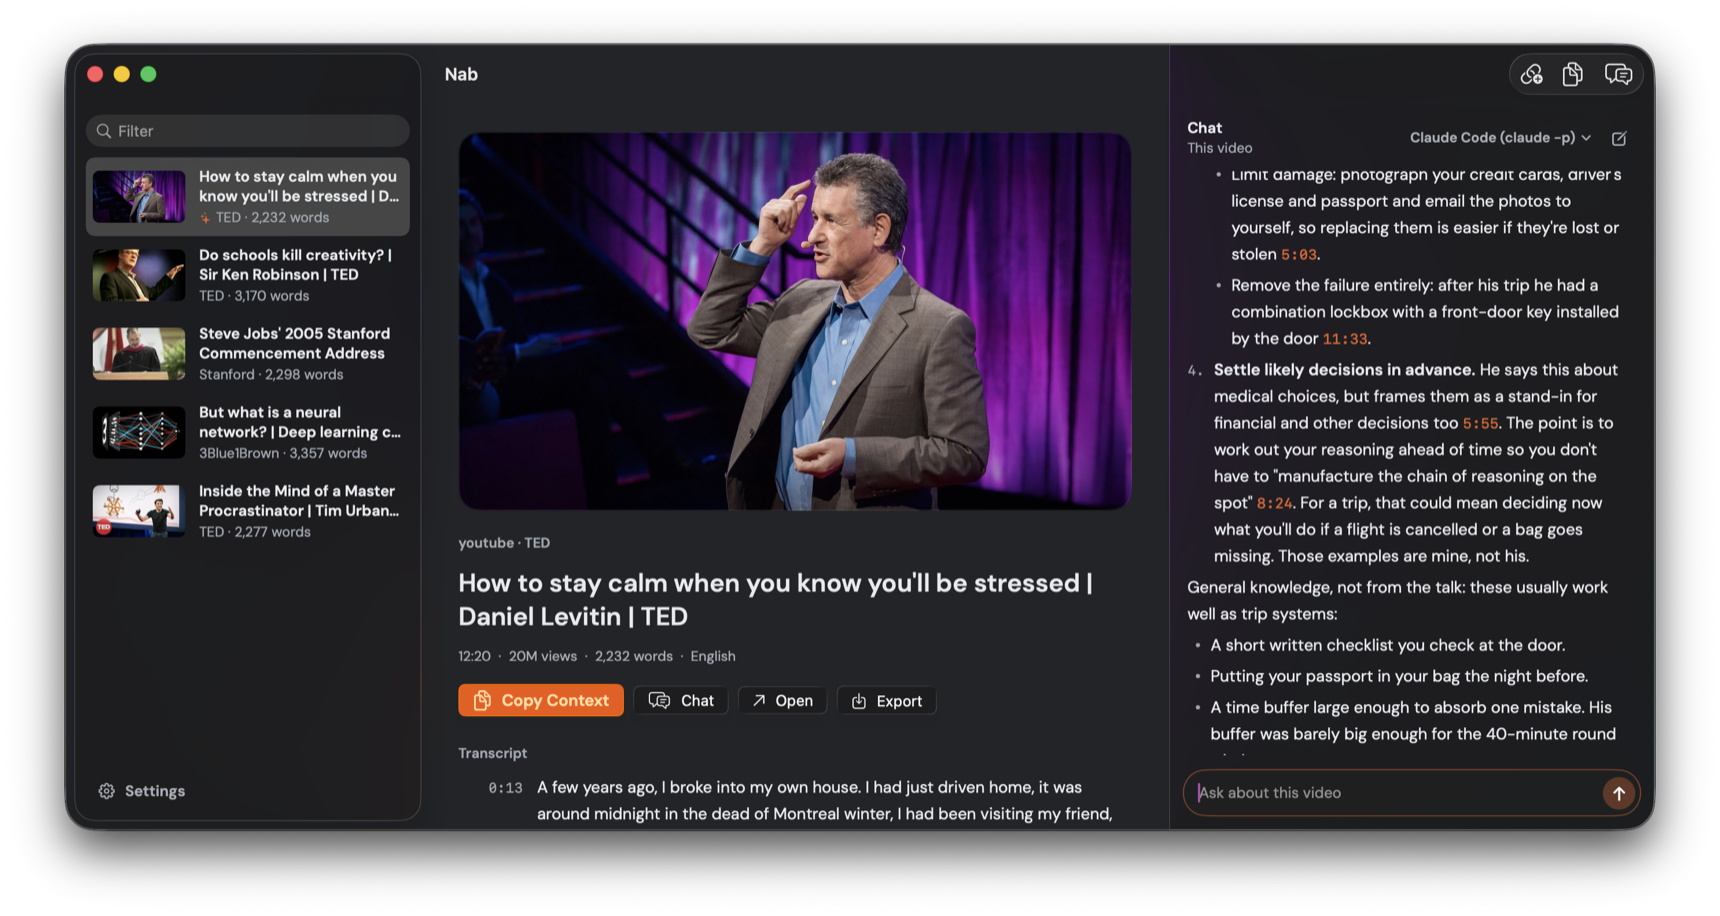
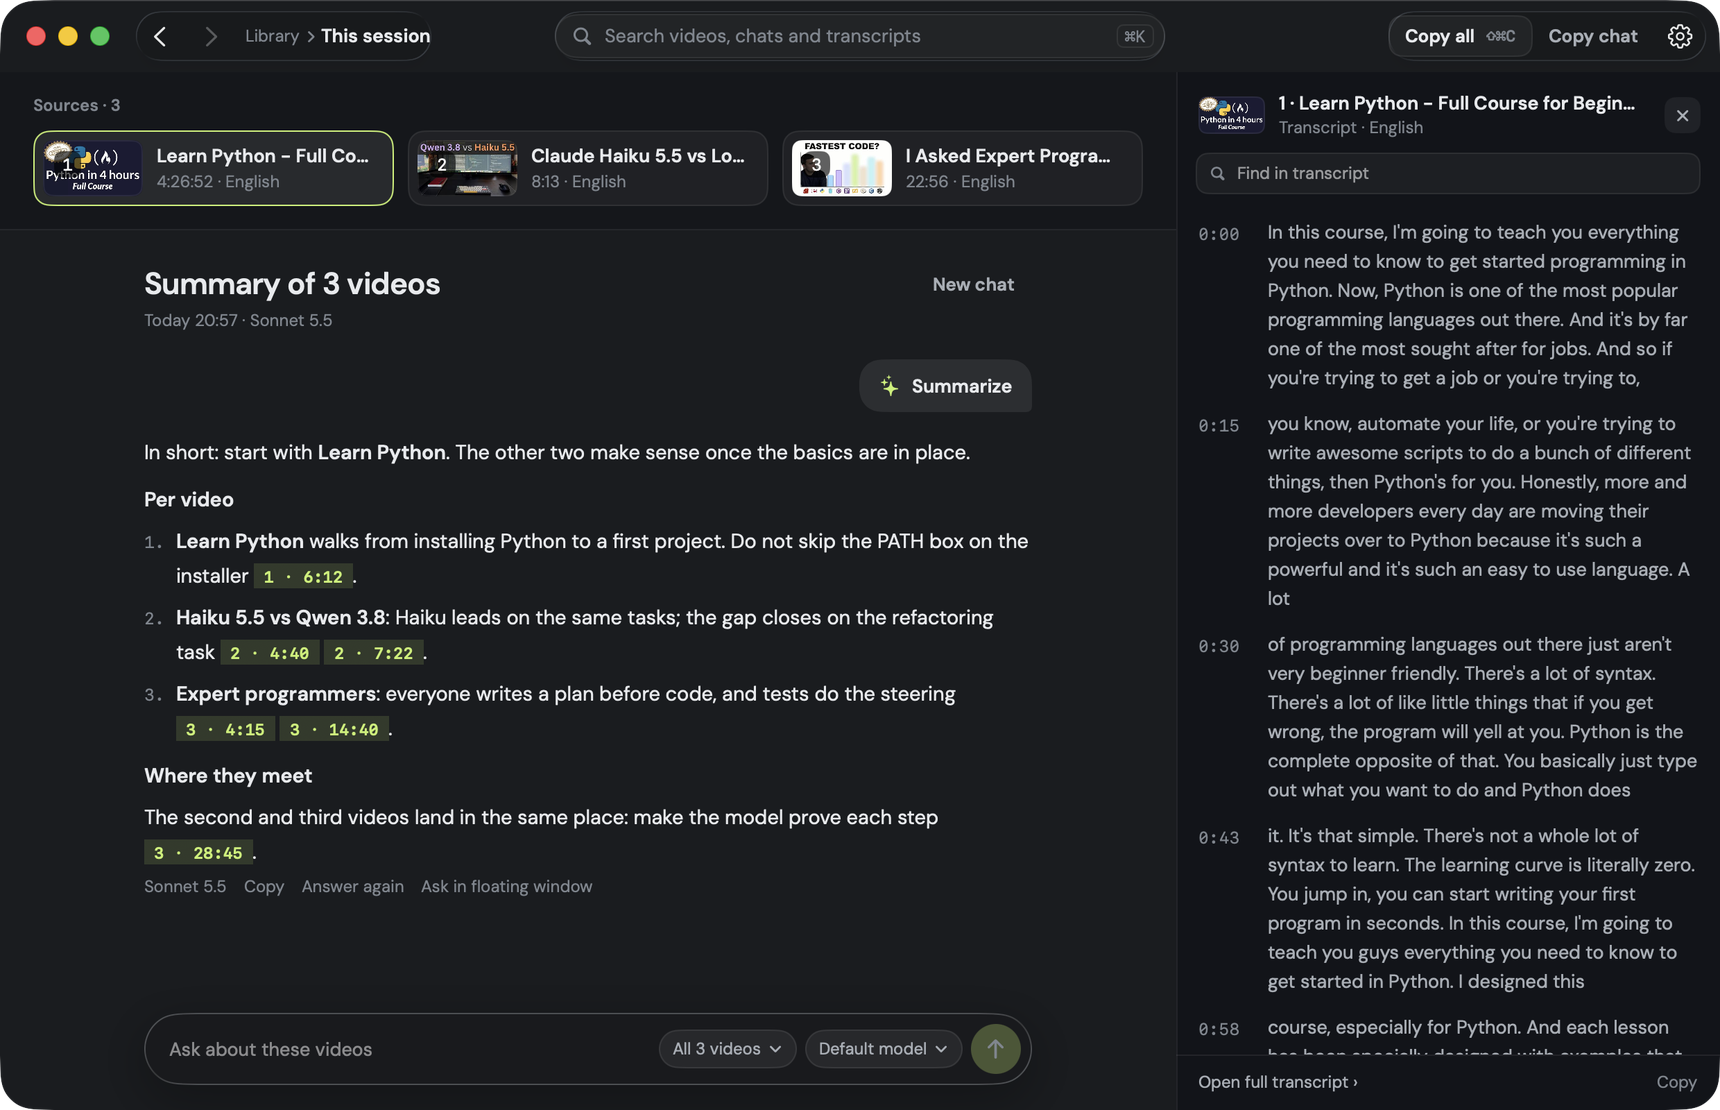
docs: describe sessions, the ask window and the nab:// routes
README lists the new shortcuts and routes, ARCHITECTURE covers the new
views and the ask window, and SECURITY states that no nab:// link sends
anything to the AI provider. The screenshot comes from the demo library.

diff --git a/ARCHITECTURE.md b/ARCHITECTURE.md
@@ -5,38 +5,48 @@ agent (`LSUIElement`): it lives in the menu bar and shows a Dock icon only while
 
 | Target | Depends on | Contents |
 | --- | --- | --- |
-| `NabCore` | Foundation, CryptoKit | `Capture` and its transcript, `SourceProvider` and `SourceRegistry`, `ContextPack`, `Conversation`, `Citation`, `LibraryStore`, `Gate`. |
+| `NabCore` | Foundation, CryptoKit | `Capture` and its transcript, `SourceProvider` and `SourceRegistry`, `ContextPack`, `Conversation`, `Citation`, `LibraryStore`, `Gate`, and the pure logic behind the interface: `HomeLayout`, `LibrarySearch`, `TranscriptSearch`, `AskScope`, `ChatStamp`, `RackText` and `SessionGrouping`. |
 | `NabYouTube` | `NabCore` | `YouTubeSource`: link parsing, the player request, caption tracks, captions and chapters. |
-| `NabAI` | `NabCore` | `AISettings`, `ProviderKind`, `Keychain` and `AIClient`, which streams one assistant turn from any provider. |
-| `NabApp` | all three | The app: `Capture/` (shortcut, browser bridge, `CaptureCenter`, `Assistant`), `UI/` (panel, toast, library, reader, chat, settings) and `Design/` (tokens, motion, fonts, the reveal and the frame probe). |
+| `NabAI` | `NabCore` | `AISettings`, `ProviderKind`, `Keychain` and `AIClient`, which streams one assistant turn from any provider; `ModelNames`, `ModelChoices` and `ProviderInfo` (provider status and probe) feed the settings page. |
+| `NabApp` | all three | The app: `Capture/` (shortcut, browser bridge, `CaptureCenter`, `Assistant`), `UI/` (menu panel, rack, library and its pages, ask window, search palette, chat, settings) and `Design/` (tokens, motion, fonts, the reveal and the frame probe). |
 | `NabCLI` | `NabCore`, `NabYouTube` | The `nab` command. |
 
 `NabCore` has no UI and makes no network requests, so everything above it can be tested with plain values.
 
 ## Capturing a video
 
-1. ⌃⌥N is a Carbon hot key (`HotKey`), which needs no permission. `nab://front` does the same.
+1. ⌃⌥N is a Carbon hot key (`HotKey`), which needs no permission. `nab://front` does the same. Before reading the
+   tab, Nab notes the pasteboard's change count; when the transcript lands and nothing else was copied meanwhile, the
+   video's context pack goes on the clipboard.
 2. `BrowserBridge` asks the frontmost browser for its active tab's URL and title with one Apple Event, on a serial
    queue with a four second timeout. Chromium browsers and Safari use different dictionaries; both are covered.
 3. `SourceRegistry` finds the `SourceProvider` that recognizes the link and gives it a stable entry id
-   (`youtube:<video id>`). A link already in the library is moved back into the tray instead of fetched again.
-4. `CaptureCenter` adds the entry right away, so the tray and the toast show it while it loads, and fetches it through
+   (`youtube:<video id>`). A link already in the library is moved into the open session instead of fetched again.
+4. `CaptureCenter` adds the entry to the open session right away, so the rack and the menu show it while it loads,
+   and fetches it through
    a `Gate` that runs at most six requests at once. The fetch holds a `ProcessInfo` activity, because App Nap otherwise
    throttles a background menu bar app's network work.
 5. `YouTubeSource` sends one request to YouTube's player endpoint, using the Android client, which answers without an
-   API key and without the proof-of-origin token the web client needs. The response lists caption tracks; Nab takes
-   a human-made track in the spoken language, then the automatic one, and downloads it as `json3`. Chapters are parsed
-   from the description the way YouTube derives them. Each request is hedged: if it has not answered in 1.2 seconds,
-   a second copy goes out on a separate connection pool and the first answer wins.
+   API key and without the proof-of-origin token the web client needs. The response lists caption tracks, one
+   automatic track per dub language on a dubbed video. Nab reads the original language from the audio track whose id
+   ends in `.4` (the default audio track follows the viewer's language and can be a dub), takes a human-made track in
+   it, then the automatic one, and downloads it as `json3`. Chapters are parsed from the description the way YouTube
+   derives them. Each request is hedged: if it has not answered in 0.45 seconds, a second copy goes out on a separate
+   connection pool and the first answer wins.
 6. The finished `Capture` is saved by `LibraryStore` as one JSON file per entry in
-   `~/Library/Application Support/Nab/Library`.
+   `~/Library/Application Support/Nab/Library`. Each entry records its `sessionID`; `SessionGrouping` rebuilds the
+   sets from it, and clusters entries saved before sessions existed by a pause of more than five minutes.
+
+A session ends when it is copied (⌃⌥A) or summarized (⌃⌥S), the next nab then starting a new one, on ⌃⌥X, or after five
+minutes without a nab. Its id and last activity are kept in `UserDefaults`, so a relaunch inside those five minutes
+resumes it.
 
 ## The context pack
 
 `ContextPack.render` turns any number of captures into one block of text. XML tags mark where each source starts and
 ends, and Markdown carries the structure inside: title, facts, chapters, description and the transcript.
 `Transcript.paragraphs` groups caption segments into passages that start at a chapter, or once 45 seconds have passed
-and a sentence ends. The reader shows the same passages, so a timecode a model quotes points at a passage the user can
+and a sentence ends. The transcript views show the same passages, so a timecode a model quotes points at a passage the user can
 see.
 
 ## Chatting
@@ -55,16 +65,51 @@ see.
    `~/Library/Application Support/Nab/Chats` when the turn ends. A finished summary of a single video is also stored
    on its capture, so it travels with the video in copied context packs.
 4. `Citation.link` turns `[12:40]` and `[2 12:40]` in an answer into `nab-cite:` links. In a single-video chat, a click
-   scrolls the reader to the passage and highlights it; otherwise it opens the video at that second. While an answer
+   opens the transcript drawer at the passage and lights it; otherwise it opens the video page at that second. While an answer
    is being written its links reach the chat's `OpenURLAction`; once it is selectable, macOS sends them to the system,
    which hands `nab-cite:` back to the app because Nab claims that scheme. Both paths end in `LibraryModel.open`.
 
 ## Interface
 
-SwiftUI views live in AppKit windows and panels: the menu bar panel and the toast are borderless `NSPanel`s, and the
-library is an `NSWindow` with a `NavigationSplitView` and the chat as its inspector. Settings is a page in the library
-window. Colors, type, radii and motion come from `Design/`; views define no color, font or animation of their own, and
-keep only one-off layout numbers. Animations that loop or bounce stand still when Reduce Motion is on.
+SwiftUI views live in AppKit windows and panels: the menu bar panel, the rack and the ask window are borderless
+`NSPanel`s, and the library is an `NSWindow` with a toolbar and one page at a time. Colors, type, radii and motion come
+from `Sources/NabApp/Design`: `Tokens.swift` (palette, type, radii), `Motion.swift`, `Fonts.swift`, `Reveal.swift` and
+`FrameProbe.swift`. Views define no color, font or animation of their own, and keep only one-off layout numbers.
+Animations that loop or bounce stand still when Reduce Motion is on.
+
+### Library routing
+
+`LibraryModel` (in `UI/Library.swift`) owns what the window shows. `Route` is `home`, `session([ids])`, `video(id)` or
+`settings`. `go(_:)` pushes the current route on `backStack` and clears `forwardStack`; `goBack` and `goForward` (⌘[,
+⌘]) walk them. `searchQuery` is the ⌘K palette's text, nil while it is closed. `focus` carries a transcript moment
+(entry id and seconds, with a token so a repeated click scrolls again) that a page scrolls to and lights.
+
+| Page | File |
+| --- | --- |
+| Home: the open session, earlier sessions by day, their chats; `FirstRun.swift` while the library is empty | `Home.swift` |
+| Session: sources, thread, composer and the transcript drawer | `SessionPage.swift`, `Chat.swift`, `TranscriptDrawer.swift` |
+| Video: cover, chapters, transcript with find and a timeline | `VideoPage.swift` |
+| Settings: capture, the AI card, shortcuts | `SettingsView.swift`, `SettingsAICard.swift` |
+| ⌘K palette: videos, chats, transcript lines | `SearchPalette.swift` over `LibrarySearch` |
+
+`Home` is laid out by `HomeLayout`, find in a transcript by `TranscriptSearch`, and the text under a chat title by
+`ChatStamp`. Shared passage grouping lives in `TranscriptSupport.swift`.
+
+### The ask window
+
+`AskWindow.swift` holds `AskWindowController` and `AskView`. It opens on ⌃⌥S, the Ask AI buttons, `nab://summarize`,
+`nab://chat` and `nab://ask`, and asks about the open session or the latest video (`AskScope` decides which and whether
+the choice is offered). The shortcut and the buttons summarize right away; a link sets `holdsSummary`, so nothing is
+sent until the user presses Summarize or Return (`nab://ask?q=` only pre-fills the field). Streaming and saving stay in
+`Assistant`, so closing the window never stops an answer. The window is a
+`FloatingPanel`, placed by `placeTopCenter(offset:)` on the screen under the mouse.
+
+A non-activating panel never makes Nab the active app, so the browser keeps its tab, but the main menu's Edit shortcuts
+do not reach the text field either. The controller installs a local `keyDown` monitor for the panel and routes keys
+itself: Esc closes, ⇥ switches scope, ⌘O opens the chat in the library, ⌘C copies a selection or else the answer, and
+⌘V, ⌘X, ⌘A and ⌘Z go to the field. A mouse click outside the panel (global and local monitors) closes it.
+
+### Motion
 
 Panels open and close on Core Animation springs with a preferred frame rate of 120 Hz. Answers write themselves in with
 `RevealRenderer`, a `TextRenderer` that draws each glyph sharpening out of a blur behind a moving edge. `RevealClock`
@@ -72,7 +117,7 @@ moves that edge toward the text that has arrived, so a stream that comes in burs
 on macOS skips custom renderers, so an answer becomes selectable once it has been fully drawn.
 
 Set `NAB_FRAME_PROBE=1` to log how many display refreshes each animation actually drew to
-`~/Library/Logs/Nab/frames.log`.
+`~/Library/Logs/Nab/frames.log`. `NAB_DATA_DIR` moves the data folder, and `NAB_OPEN='nab://…'` handles a URL at launch (debug builds only).
 
 ## Adding a source
 
@@ -93,7 +138,7 @@ public protocol SourceProvider: Sendable {
 
 `covers` and `link` have defaults (no covers until the fetch finds one; links open the item itself). Add a
 `SourceKind`, implement the provider in its own target, and register it in `SourceRegistry.standard` in the app and in
-the CLI. The library, the reader, the context pack, the chat and the CLI work with it unchanged.
+the CLI. The library, the transcript views, the context pack, the chat and the CLI work with it unchanged.
 
 ## Tests
 
@@ -103,8 +148,10 @@ keychain:
 - **YouTube:** link shapes, chapters, captions, caption track choice, covers and links to a moment.
 - **Library and context pack:** passages, the registry, the pack's structure, text from a video that tries to close the
   pack's tags, timecodes, the store's files (including long chat ids and unreadable entries) and the `Gate`.
-- **Conversations and settings:** citations, failed turns, prompt language, what is stored and how old defaults
-  migrate.
+- **Interface logic:** home grouping and filters, library search, find in a transcript, the ask scope, chat stamps,
+  rack text and session grouping, all as plain values.
+- **Conversations and settings:** citations, failed turns, prompt language, model names and choices, what is stored and
+  how old defaults migrate.
 - **AI client:** the prompts sent to each provider, server-sent events, server addresses, and the Anthropic and
   OpenAI-compatible streams end to end against a stubbed `URLSession`.
 - **Command-line providers:** small shell commands that ignore their input, flood standard error, fail, print Markdown

diff --git a/README.md b/README.md
@@ -17,12 +17,13 @@
 </p>
 
 <p align="center">
-  <img src="docs/images/chat.png" alt="The Nab library: a TED talk with its transcript on the left and a chat about it on the right" width="860">
+  <img src="docs/images/chat.png" alt="The Nab library: a summary of three videos with timecode links, one transcript open beside it" width="860">
 </p>
 
 Nab lives in the menu bar. Press **⌃⌥N** while a YouTube video is open in your browser and Nab reads the tab's
-address, fetches the video's details, chapters and transcript, and adds it to the tray. Collect one video or twenty,
-then copy them as a single context pack, or open the library and talk to a model about them. Nab works with the model
+address, fetches the video's details, chapters and transcript, and puts its context on the clipboard, ready to paste.
+Collect one video or twenty: **⌃⌥A** copies them as a single context pack, **⌃⌥S** opens the library and summarizes
+them in a floating window, **⌃⌥X** starts a fresh set. Nab works with the model
 you already use: Claude Code, Codex, the Anthropic or OpenAI API, OpenRouter, or a local model through Ollama or
 LM Studio.
 
@@ -45,10 +46,14 @@ LM Studio.
 | | |
 | --- | --- |
 | **Capture** | ⌃⌥N takes the front tab of Safari, Chrome, Arc, Brave, Edge, Vivaldi, Opera, Dia, Comet or Helium. Paste any number of links at once, or drive Nab from Shortcuts, Raycast and scripts through `nab://` URLs. |
-| **Transcript** | Details, chapters and captions in the video's spoken language, preferring a human-made track over automatic captions. |
+| **Sessions** | Videos nabbed close together form a session. A rack under the menu bar icon deals each one in as it arrives and the icon counts them. Copying or summarizing a session, ⌃⌥X, or five quiet minutes start the next one, and the library keeps each set together. |
+| **Transcript** | Details, chapters and captions in the video's original language, even when YouTube offers dubbed tracks, preferring a human-made track over automatic captions. |
 | **Context pack** | One block of text for any number of videos: tagged sources, an index, chapters, the description and the timecoded transcript. Copy it, or export it as Markdown. |
-| **Chat** | Summarize a video or a whole tray, then keep asking. Answers stream in, cite timecodes and are saved with the video. |
-| **Library** | Everything you collected, with cover images, a reader for each transcript and the chat beside it. |
+| **Chat** | Summarize a video or a whole session, then keep asking. Answers stream in, cite timecodes and are saved with the video. |
+| **Library** | One window, four pages. **Home** lists the open session and earlier ones by day, with their chats. A **session page** holds the chat and, beside it, a transcript drawer that opens from a source card or a timecode. A **video page** shows chapters and the transcript, with find (⌘F) and a timeline. **Settings** is the fourth. ⌘[ and ⌘] go back and forward. |
+| **Search** | ⌘K searches video titles, chats and transcript lines, and jumps to the moment. |
+| **Ask window** | ⌃⌥S opens a floating glass window near the top of the screen without leaving your browser. It asks about the open session, or the latest video when the session is empty. Ask follow-ups there. Esc closes it, ⇥ switches between session and latest video, ⌘O opens the chat in the library and ⌘C copies the answer. |
+| **Menu bar** | The icon opens a panel with the session and its Copy all, Ask AI and New session buttons, plus paste, export, the library and Settings. The rack under the icon shows what a shortcut just did. |
 | **Command line** | `nab <links>` prints the same context pack, for scripts and agents. |
 
 ## Getting started
@@ -97,6 +102,24 @@ Nab sends requests to YouTube to read a video, and to the AI provider you choose
 The provider receives the video's details and transcript and your chat with it. Nab has no account, no analytics and
 no server of its own. Your library and chats are stored as JSON files in `~/Library/Application Support/Nab`.
 
+### Keyboard shortcuts
+
+| Shortcut | Does |
+| --- | --- |
+| ⌃⌥N | Nab the front browser tab. |
+| ⌃⌥A | Copy the session's context pack. |
+| ⌃⌥S | Open or close the ask window on the session. |
+| ⌃⌥X | Start a fresh session. |
+| ⌘K | Search the library (in the library window). |
+| ⌘, | Open Settings. |
+| ⌘[ and ⌘] | Back and forward. |
+| ⌘F | Find in the transcript (video page). |
+| ⇧⌘V | Add every YouTube link on the clipboard. |
+| ⇧⌘C | Copy the page's videos as a context pack. |
+| ⌘J | Ask AI about the current page. |
+
+Settings also has **New session after**: how many quiet minutes (1 to 60, five by default) end a session.
+
 ## Command line and URLs
 
 The app bundle contains the `nab` command:
@@ -110,8 +133,18 @@ Nab.app/Contents/Resources/nab --json "https://youtu.be/…"                    
 | --- | --- |
 | `nab://front` | What ⌃⌥N does. |
 | `nab://add?url=…` | Adds one or more links (repeat `url=`). |
-| `nab://chat?url=…` | Adds the links, opens the chat and summarizes them. |
+| `nab://chat?url=…` | Adds the links, waits for them, then opens the ask window on them. Press Summarize to send. |
+| `nab://copy` | What ⌃⌥A does: copies the session's context. |
+| `nab://summarize` | Opens the ask window on the session. Unlike ⌃⌥S it sends nothing until you press Summarize. |
+| `nab://ask` | Opens the ask window on the session (or the latest video) with the field focused. It sends nothing. |
+| `nab://ask?q=…` | Opens the ask window with that text in the field. It does not send; you press Return. |
+| `nab://close` | What ⌃⌥X does: starts a fresh session. |
+| `nab://menu` | Opens the menu bar panel. |
 | `nab://library` | Opens the library. |
+| `nab://library?id=…` | Opens the library on that video. |
+| `nab://library?session=current` | Opens the library on the open session's chat. |
+| `nab://settings` | Opens the Settings page. |
+| `nab://search?q=…` | Opens the ⌘K search with that text. |
 
 ## Development
 
@@ -129,8 +162,10 @@ scripts/check.sh     # what CI runs: formatting, a build that treats warnings as
 | `NabCore` | The data model, the source registry, the context pack, conversations and the library store. No UI, no network. |
 | `NabYouTube` | Reads a YouTube video: details, caption tracks, captions and chapters. |
 | `NabAI` | Providers, settings and the keychain: one streaming client for HTTP APIs and command-line tools. |
-| `NabApp` | The menu bar app: shortcut, browser bridge, tray, library, reader, chat, settings and the design system. |
+| `NabApp` | The menu bar app: shortcuts, browser bridge, session rack, library pages, ask window, search, chat, settings and the design system. |
 | `NabCLI` | The `nab` command. |
+
+For debugging, `NAB_DATA_DIR` points Nab at another data folder, and `NAB_OPEN='nab://…'` handles that URL at launch (debug builds only).
 
 [ARCHITECTURE.md](ARCHITECTURE.md) explains how a capture and a chat flow through these parts, and how to add a new
 source.

diff --git a/SECURITY.md b/SECURITY.md
@@ -13,8 +13,11 @@ Examples of what to report:
 - Library entries, chats or transcripts reaching a place the user did not choose, such as a provider they did not
   select or an unexpected file.
 - An API key written anywhere outside the keychain, or shown in the interface or a log.
-- A `nab://` URL that makes Nab do more than add links, open the library, or open a chat and summarize the links it
-  was given, or a `nab-cite://` URL that does more than show a moment of a video in the open chat.
+- A `nab://` URL that makes Nab do more than this: add links; open the library, a video, the open session's chat,
+  Settings, the search palette or the menu bar panel; copy the session's context; start a new session; or open the
+  floating AI window. No `nab://` URL sends anything to the AI provider: `nab://summarize`, `nab://chat` and
+  `nab://ask` wait for the user to press Summarize or Return, and `nab://ask?q=` only pre-fills the field. Or a
+  `nab-cite://` URL that does more than show a moment of a video.
 - Text from a video or a model that can make Nab run a command or open something without the user acting.
 
 Please include the macOS version, the Nab commit or version, the provider involved and steps to reproduce. Do not
